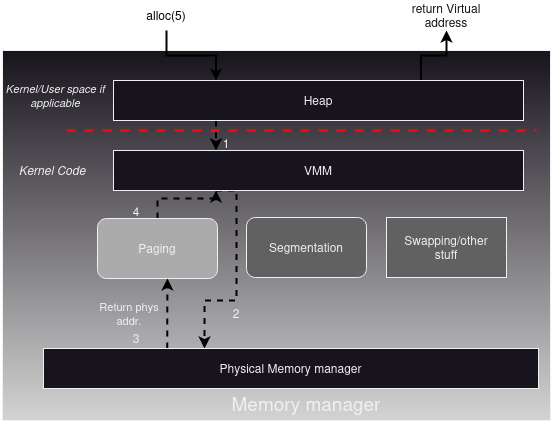
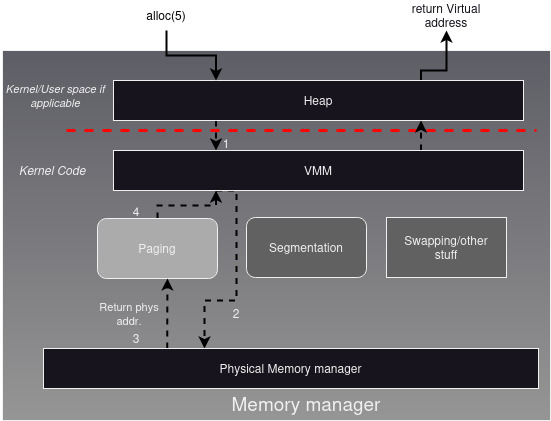
Typo fixes and fix to memory manager example image (#56)

diff --git a/02_Architecture/02_Hello_World.md b/02_Architecture/02_Hello_World.md
@@ -4,7 +4,7 @@ During the development of our kernel we will need to debug a lot, and checking a
 
 This is where the serial logging came to an aid, we will use the serial port to output our text and numbers. 
 
-Many emulators has an option to redirect serial data to a file, if we are using QEmu (for more information about it refer to the Appendices section) we need to start it passing the parameter *-serial file:filename*:
+Many emulators have an option to redirect serial data to a file, if we are using QEmu (for more information about it refer to the Appendices section) we need to start it passing the parameter `-serial file:filename`:
 
 ```bash
 qemu -serial file:filename.log -cdrom yourosiso

diff --git a/04_Memory_Management/01_Overview.md b/04_Memory_Management/01_Overview.md
@@ -73,5 +73,5 @@ What happens under the hood?
 
 The picture below identifies the various components of a basic memory management setup and show how they interact in this example scenario.
 
-![Memory management](/Images/memorymanager_example.jpg)
+![Memory management Workflow Example](/Images/memorymanager_example.jpg)
 
